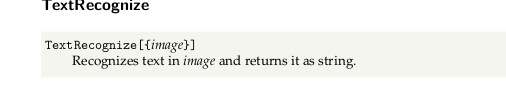
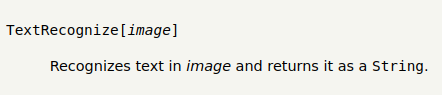
Add TextRecognize example...
fix up `pyocr` package detection, correct image capture, and correct a
grammar typo.

Changed region(s): [[0.0, 0.2526, 0.9706, 0.7789], [0.0588, 0.0, 0.2941, 0.1474]]

diff --git a/mathics/builtin/image/misc.py b/mathics/builtin/image/misc.py
@@ -228,9 +228,17 @@ class TextRecognize(Builtin):
     https://reference.wolfram.com/language/ref/TextRecognize.html</url>
 
     <dl>
-      <dt>'TextRecognize[{$image$}]'
-      <dd>Recognizes text in $image$ and returns it as string.
+      <dt>'TextRecognize[$image$]'
+      <dd>Recognizes text in $image$ and returns it as a 'String'.
     </dl>
+
+    >> textimage = Import["ExampleData/TextRecognize.png"]
+     = -Image-
+
+    >> TextRecognize[textimage]
+     = TextRecognize[ image]
+     .
+     . Recognizes text in image and returns it as a String.
     """
 
     messages = {
@@ -241,7 +249,7 @@ class TextRecognize(Builtin):
 
     options = {"Language": '"English"'}
 
-    requires = "pyocr"
+    requires = ("pyocr",)
 
     summary_text = "recognize text in an image"
 
